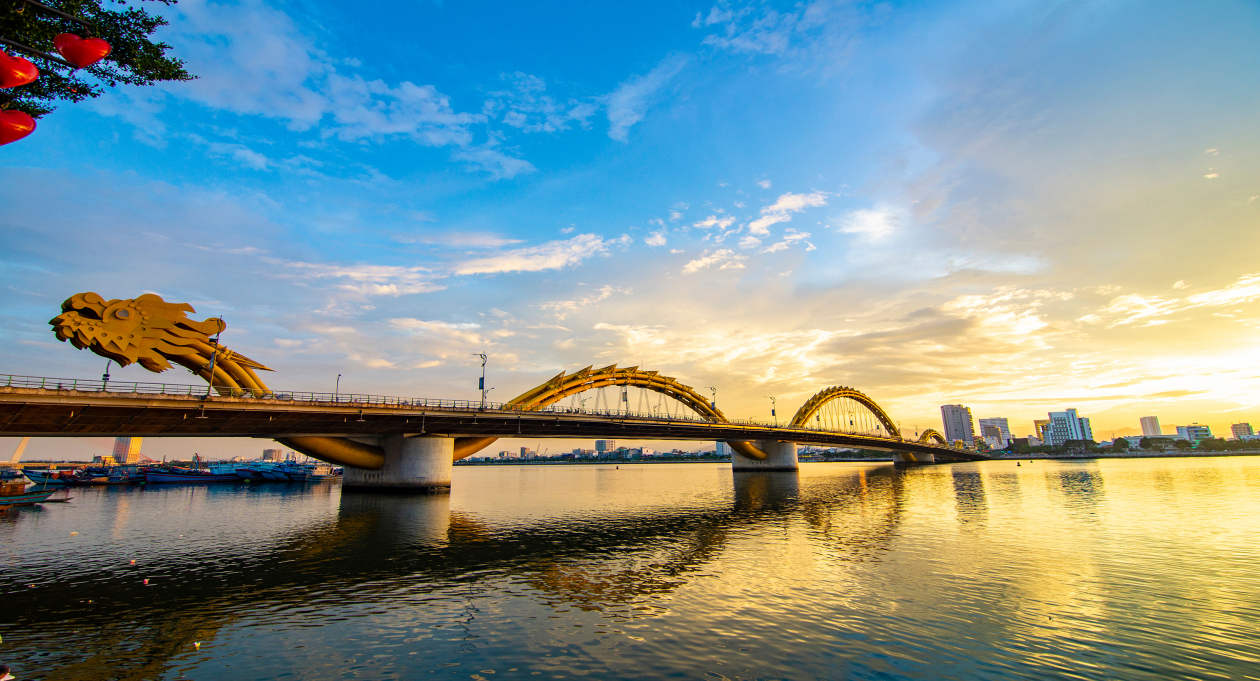
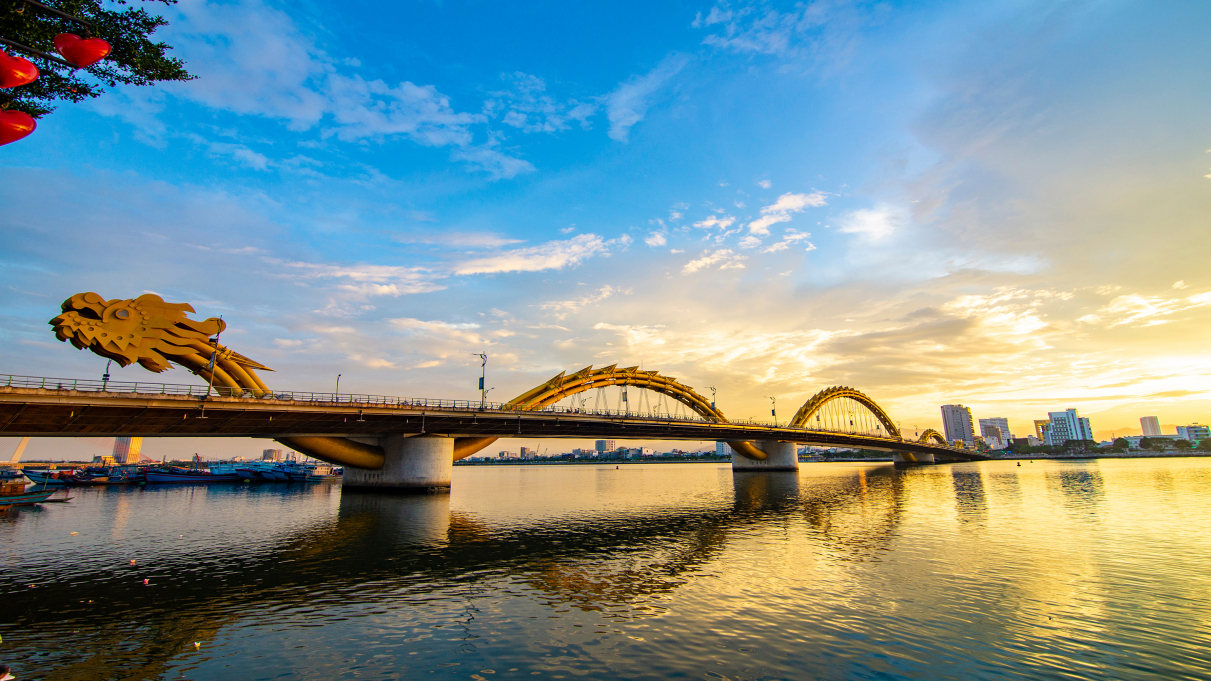
Tours - Resized images. Editted flexboxes.

diff --git a/Tours/tours.html b/Tours/tours.html
@@ -51,7 +51,9 @@
 
 <main>
     <div class="box left">
-        <img src="images/Tours_Hanoi.jpg" alt="Turtle Tower in Hanoi">
+        <div class=img-frame>
+            <img src="images/Tours_Hanoi.jpg" alt="Turtle Tower in Hanoi">
+        </div>
         <div class="text">
             <h1>Hanoi</h1>
             <p>Explore the vibrant streets, indulge in delicious street food, and immerse yourself in the rich history and culture of the capital of Vietnam</p>
@@ -63,11 +65,16 @@
             <h1>Ho Chi Minh City</h1>
             <p>Experience the dynamic blend of history, culture, and modernity in Ho Chi Minh City through guided tours that showcase its bustling markets, historic landmarks, and delicious street food</p>
         </div>
-        <img src="images/Tours_HCMC.jpg" alt="Turtle Tower in Hanoi">
+        <div class=img-frame>
+            <img src="images/Tours_HCMC.webp" alt="Ben Thanh Market in Ho Chi Minh City">
+        </div>
+
     </div>
 
     <div class="box left">
-        <img src="images/Tours_HaLong.jpg" alt="Turtle Tower in Hanoi">
+        <div class=img-frame>
+            <img src="images/Tours_HaLong.jpg" alt="Ha Long Bay in Quang Ninh">
+        </div>
         <div class="text">
             <h1>Quang Ninh</h1>
             <p>Explore the breathtaking landscapes of Ha Long Bay on tours that take you through its enchanting limestone karsts, emerald waters, and unique floating fishing villages</p>
@@ -79,11 +86,17 @@
             <h1>Da Nang</h1>
             <p>Experience the perfect blend of urban sophistication and natural beauty in Da Nang, with tours that take you to stunning beaches, the iconic Marble Mountains, and the historic charm of nearby Hoi An</p>
         </div>
-        <img src="images/Tours_DaNang.jpg" alt="Turtle Tower in Hanoi">
+        <div class=img-frame>
+            <img src="images/Tours_DaNang.jpg" alt="Dragon Bridge in Da Nang">
+        </div>
+
     </div>
 
     <div class="box left">
-        <img src="images/Tours_NhaTrang.jpg" alt="Turtle Tower in Hanoi">
+        <div class=img-frame>
+            <img src="images/Tours_NhaTrang.jpg" alt="A beach in Nha Trang, Khanh Hoa">
+        </div>
+
         <div class="text">
             <h1>Khanh Hoa</h1>
             <p>Visit Nha Trang and discover the stunning coastal beauty and marine life through our exciting tours, including beach experiences, thrilling water sports, and cultural excursions to ancient temples</p>
@@ -95,7 +108,10 @@
             <h1>Phu Quoc</h1>
             <p>Dive into paradise in Phu Quoc, where tours offer pristine beaches, lush jungles, and vibrant coral reefs, making it an ideal destination for relaxation and adventure alike</p>
         </div>
-        <img src="images/Tours_PhuQuoc.jpg" alt="Turtle Tower in Hanoi">
+        <div class=img-frame>
+            <img src="images/Tours_PhuQuoc.jpg" alt="Grand World in Phu Quoc">
+        </div>
+
     </div>
 </main>
 

diff --git a/Tours/main.css b/Tours/main.css
@@ -8,9 +8,9 @@ main {
     height: 150px;
     width: 70%;
     margin: 20px 15%;
+    background: #FAFAFA;
     display: flex;
     align-items: center;
-    background: #FAFAFA;
 }
 
 .box.left {
@@ -22,14 +22,19 @@ main {
 }
 
 .box:hover {
-    border: none;
     box-shadow: 10px 10px 10px #565656;
     transition: 150ms;
 }
 
-.box img {
-    height: 101%;
+.box .img-frame {
+    height: 101%; /* 151.5px */
+    width: 269px;
+    flex-shrink: 0;
     overflow: hidden;
+}
+
+.box .img-frame img {
+    max-height: 100%;
 }
 
 .box .text {
